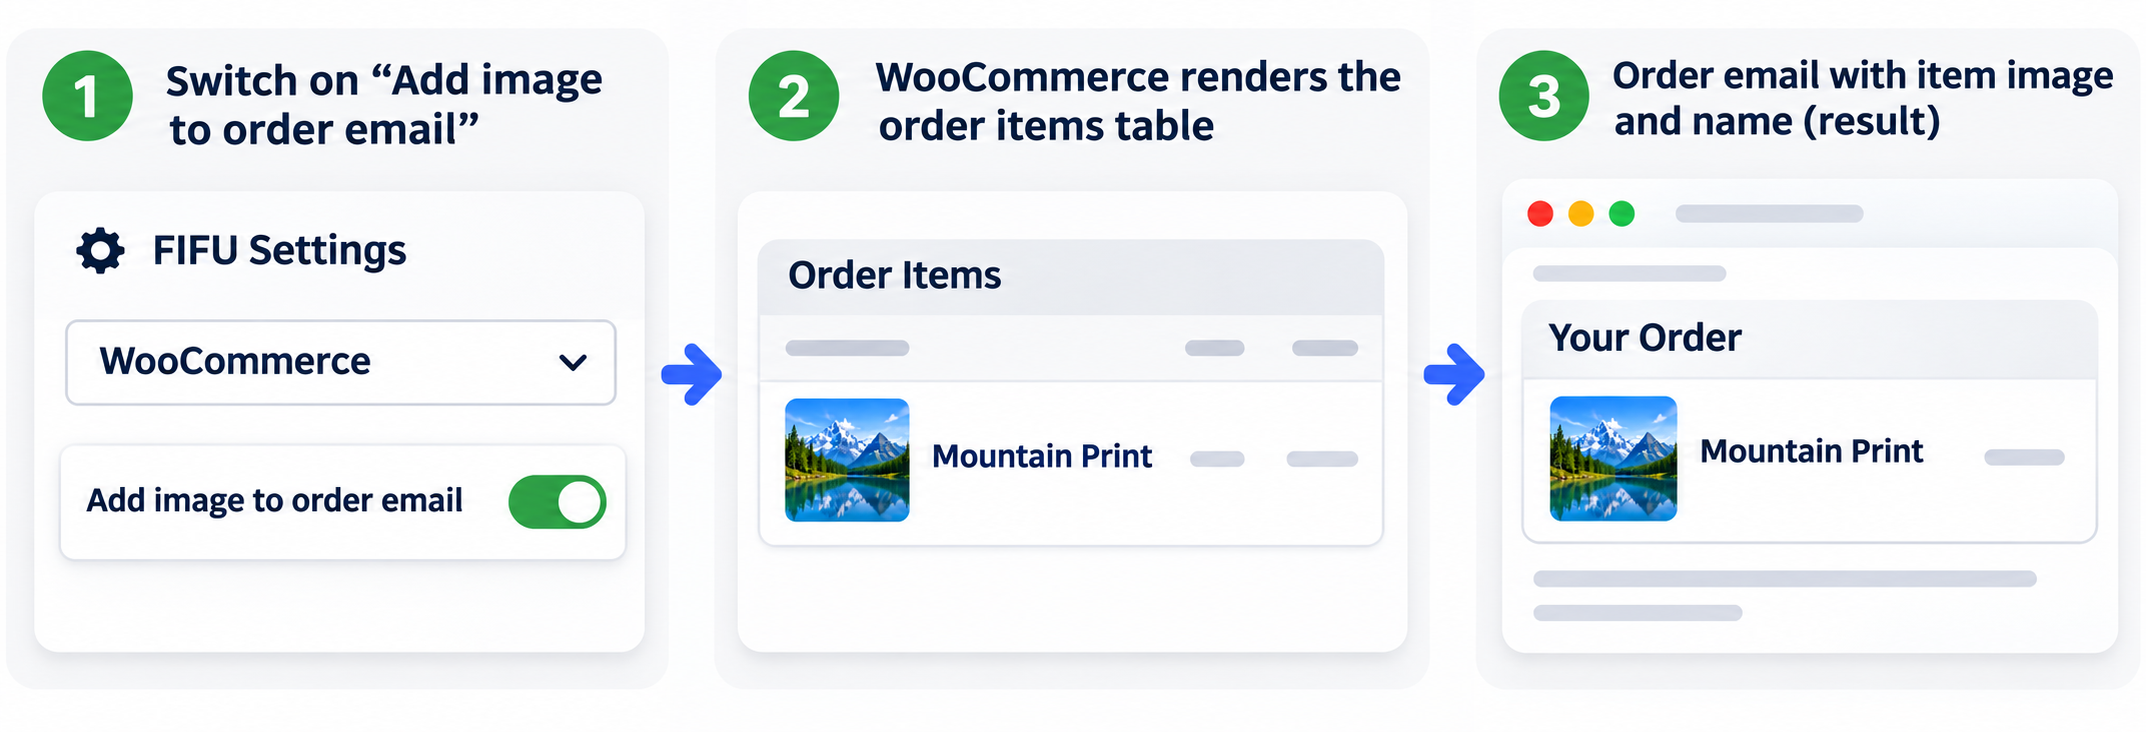
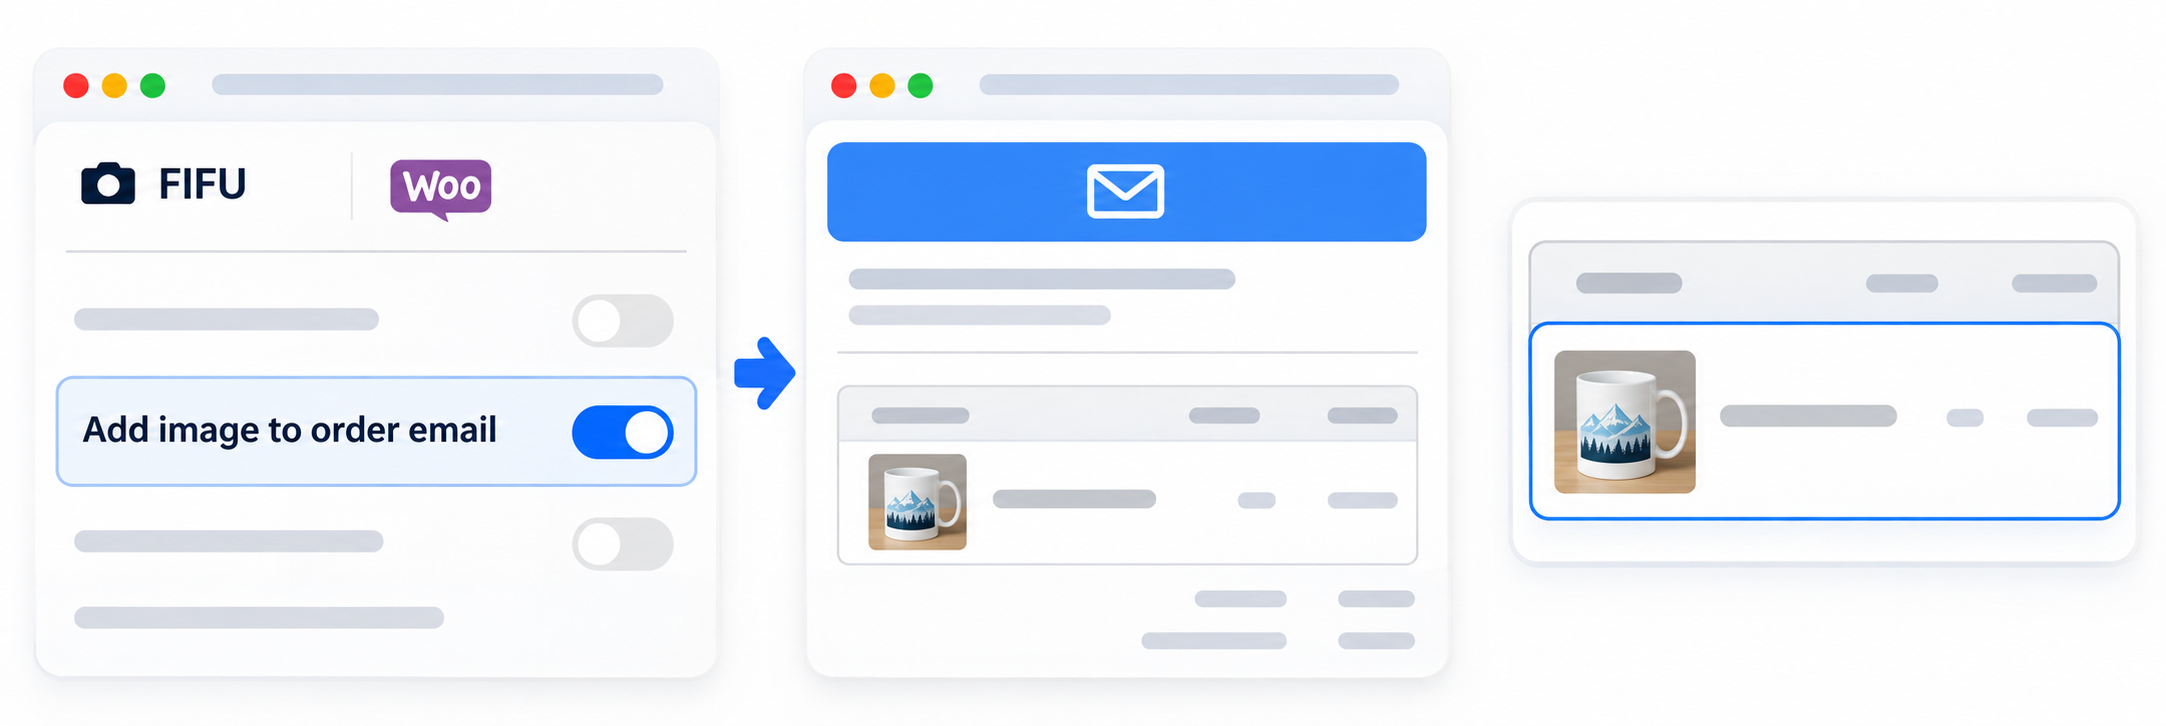
Add image to order email

diff --git a/frontend/app/routes/detail.tsx b/frontend/app/routes/detail.tsx
@@ -2818,67 +2818,43 @@ function OrderEmailImagesGuide() {
       className="feature-guide-page"
     >
       <p className="lead">
-        Add a 100 × 100 product image beside each item in WooCommerce order emails with
-        one setting.
+        Turn on one WooCommerce setting to add each product’s 100 × 100 image to order
+        emails.
       </p>
 
-      <section className="feature-highlight" aria-labelledby="order-email-intro">
+      <section className="feature-highlight" aria-labelledby="order-email-purpose">
         <div className="feature-highlight-copy">
           <span className="feature-highlight-kicker">
             <MailPlus size={15} aria-hidden="true" />
-            WOOCOMMERCE ORDER EMAILS
+            ORDER ITEM IMAGES
           </span>
-          <h2 id="order-email-intro">Make ordered products easier to recognize.</h2>
+          <h2 id="order-email-purpose">Give each ordered item a visual cue.</h2>
           <p>
-            Turn on image display for the order items table. WooCommerce renders each item
-            with its product image at 100 × 100 pixels.
+            Similar product names or variations can be hard to distinguish in an email.
+            Showing the product image beside its item can help you and your customers
+            confirm an order at a glance. Turn it on when that visual cue is useful; leave
+            it off when item text is enough.
           </p>
         </div>
         <div className="feature-highlight-visual">
           <img
             src="/images/add-image-to-order-email-guide-1.png"
-            alt="Enable Add image to order email, then see product thumbnails beside item names in the order email."
+            alt="Turn on Add image to order email, then see a product image beside an item in the WooCommerce order email."
           />
         </div>
       </section>
 
       <section
         className="activation-feature-section"
-        aria-labelledby="order-email-purpose-title"
-      >
-        <div className="activation-feature-section-heading">
-          <span className="activation-feature-icon">
-            <Image size={19} aria-hidden="true" />
-          </span>
-          <div>
-            <span className="activation-feature-kicker">WHEN TO USE IT</span>
-            <h2 id="order-email-purpose-title">Give order emails a visual reference.</h2>
-          </div>
-        </div>
-        <p>
-          WooCommerce’s order item table can list products without pictures. When you
-          enable this option, images appear alongside item details in emails that contain
-          that table. The visual cue can help you and your customers identify products
-          more quickly, especially when names or variations look similar.
-        </p>
-        <p>
-          Use it when you want product imagery in order emails. It is optional if
-          text-only item details already work for your store. WooCommerce must be active
-          for its order email table to be available.
-        </p>
-      </section>
-
-      <section
-        className="activation-feature-section"
-        aria-labelledby="order-email-setup-title"
+        aria-labelledby="order-email-enable"
       >
         <div className="activation-feature-section-heading">
           <span className="activation-feature-icon">
             <Settings2 size={19} aria-hidden="true" />
           </span>
           <div>
-            <span className="activation-feature-kicker">ENABLE THE SETTING</span>
-            <h2 id="order-email-setup-title">Turn on product images.</h2>
+            <span className="activation-feature-kicker">ENABLE IT</span>
+            <h2 id="order-email-enable">Switch on order item images.</h2>
           </div>
         </div>
         <ol className="activation-feature-steps">
@@ -2891,14 +2867,14 @@ function OrderEmailImagesGuide() {
           <li>
             <span>2</span>
             <p>
-              Switch on <strong>Add image to order email</strong>.
+              Turn on <strong>Add image to order email</strong>.
             </p>
           </li>
           <li>
             <span>3</span>
             <p>
-              Review an order email that includes the order items table. Each item is
-              rendered with an image size of <strong>100 × 100 pixels</strong>.
+              Open an order email that includes WooCommerce’s ordered-items table. Each
+              product row can now include its image.
             </p>
           </li>
         </ol>
@@ -2906,97 +2882,108 @@ function OrderEmailImagesGuide() {
 
       <section
         className="activation-feature-section"
-        aria-labelledby="order-email-coverage-title"
+        aria-labelledby="order-email-behavior"
       >
         <div className="activation-feature-section-heading">
           <span className="activation-feature-icon">
-            <ListFilter size={19} aria-hidden="true" />
+            <Image size={19} aria-hidden="true" />
           </span>
           <div>
-            <span className="activation-feature-kicker">COVERAGE AND CONTROL</span>
-            <h2 id="order-email-coverage-title">Know what changes.</h2>
+            <span className="activation-feature-kicker">WHAT CHANGES</span>
+            <h2 id="order-email-behavior">The setting affects the order items table.</h2>
           </div>
         </div>
         <dl className="fifu-fields-options">
           <div>
-            <dt>Emails affected</dt>
+            <dt>Where images appear</dt>
             <dd>
-              Emails that render WooCommerce’s ordered-items table. Other email content is
-              not replaced by this setting.
-            </dd>
-          </div>
-          <div>
-            <dt>Product image source</dt>
-            <dd>
-              The product image can come from a FIFU image URL or the WordPress Media
-              Library.
+              WooCommerce emails that render the ordered-items table. Other email content
+              is not changed by this setting.
             </dd>
           </div>
           <div>
             <dt>Image size</dt>
             <dd>
-              Fixed at 100 × 100 pixels; this feature has no separate size or placement
-              controls.
+              The integration requests a 100 × 100 image for each item. There is no
+              separate size or placement control.
             </dd>
           </div>
           <div>
-            <dt>Setting off</dt>
-            <dd>The original WooCommerce order items table is returned unchanged.</dd>
-          </div>
-          <div>
-            <dt>Optional WP-CLI control</dt>
+            <dt>When disabled</dt>
             <dd>
-              Run <code>wp fifu woo --order-email=on</code> to enable it or use{' '}
-              <code>--order-email=off</code> to disable it. See the{' '}
-              <Link to="/features/wp-cli/">WP-CLI guide</Link> for terminal prerequisites.
+              The existing WooCommerce table is passed through without FIFU adding images.
             </dd>
           </div>
         </dl>
+        <p>
+          WooCommerce must be active and the email must render its ordered-items table for
+          this integration to apply. WooCommerce renders the product image; FIFU’s product
+          image filter can supply a{' '}
+          <Link to="/features/remote-featured-image/">remote FIFU featured image</Link>{' '}
+          through that rendering path.
+        </p>
+      </section>
+
+      <section className="activation-feature-section" aria-labelledby="order-email-cli">
+        <div className="activation-feature-section-heading">
+          <span className="activation-feature-icon">
+            <Terminal size={19} aria-hidden="true" />
+          </span>
+          <div>
+            <span className="activation-feature-kicker">OPTIONAL · WP-CLI</span>
+            <h2 id="order-email-cli">Change the same switch from the command line.</h2>
+          </div>
+        </div>
+        <p>
+          If you administer WordPress with WP-CLI, run one of these commands to enable or
+          disable the setting:
+        </p>
+        <dl className="fifu-fields-options">
+          <div>
+            <dt>Enable</dt>
+            <dd>
+              <code>wp fifu woo --order-email=on</code>
+            </dd>
+          </div>
+          <div>
+            <dt>Disable</dt>
+            <dd>
+              <code>wp fifu woo --order-email=off</code>
+            </dd>
+          </div>
+        </dl>
+        <p>
+          The accepted values are <code>on</code> and <code>off</code>. For other FIFU
+          command-line controls, continue with the{' '}
+          <Link to="/features/wp-cli/">WP-CLI feature guide</Link>.
+        </p>
       </section>
 
       <section
         className="activation-feature-section activation-feature-help"
-        aria-labelledby="order-email-troubleshooting-title"
+        aria-labelledby="order-email-troubleshooting"
       >
         <div className="activation-feature-section-heading">
           <span className="activation-feature-icon help">
             <CircleAlert size={18} aria-hidden="true" />
           </span>
           <div>
-            <span className="activation-feature-kicker">IF IMAGES ARE MISSING</span>
-            <h2 id="order-email-troubleshooting-title">
-              Check the switch and the email content.
-            </h2>
+            <span className="activation-feature-kicker">TROUBLESHOOTING</span>
+            <h2 id="order-email-troubleshooting">If an item has no image</h2>
           </div>
         </div>
-        <ul className="activation-feature-steps">
+        <ul className="activation-feature-help-list">
           <li>
-            <span>
-              <Check size={15} aria-hidden="true" />
-            </span>
-            <p>
-              Confirm <strong>Add image to order email</strong> is on under FIFU →
-              Settings → WooCommerce.
-            </p>
+            Confirm <strong>Add image to order email</strong> is on under FIFU → Settings
+            → WooCommerce.
           </li>
           <li>
-            <span>
-              <Check size={15} aria-hidden="true" />
-            </span>
-            <p>
-              Check that the message includes WooCommerce’s order items table; this
-              integration filters that table only.
-            </p>
+            Check that the email contains WooCommerce’s ordered-items table; the
+            integration filters that table only.
           </li>
           <li>
-            <span>
-              <Check size={15} aria-hidden="true" />
-            </span>
-            <p>
-              Email applications may hide remote images until the recipient allows them.
-              If the email’s item text appears but pictures do not, check the recipient’s
-              email image-display settings.
-            </p>
+            Check whether the product image appears in WooCommerce’s product image output.
+            The email integration requests that output at 100 × 100 pixels.
           </li>
         </ul>
       </section>
